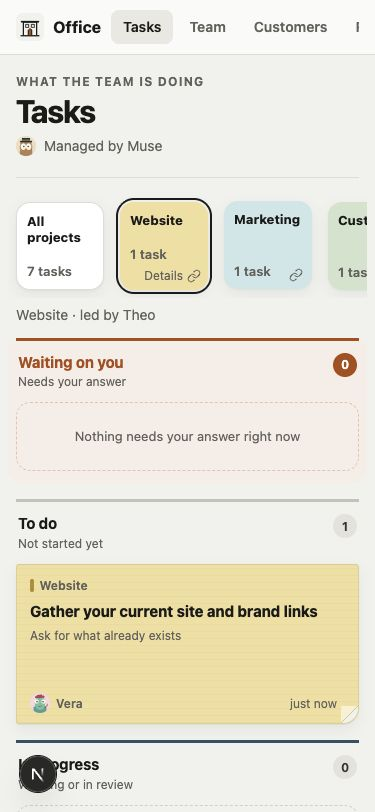
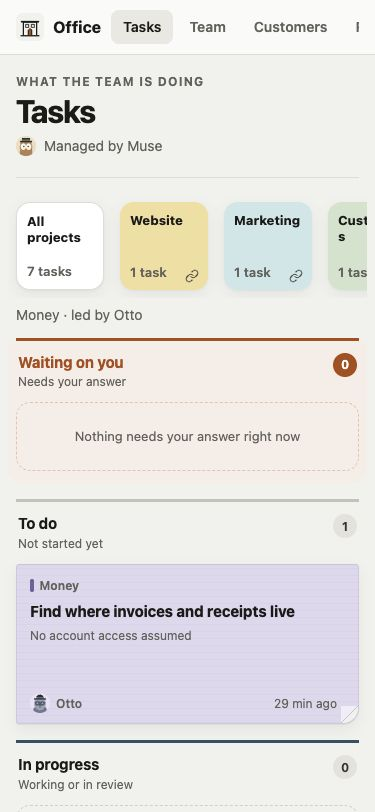
fix(tasks): keep selected project links visible on phones

diff --git a/src/lib/starter-seed.ts b/src/lib/starter-seed.ts
@@ -45,7 +45,7 @@ export function seedStarter(db: Database.Database) {
     const update = db.prepare(`INSERT INTO task_updates (task, author, kind, body, created_at) VALUES (?, ?, ?, ?, ?)`);
     const tasks: Array<[string, string, string, string, string, number, string | null, string | null, string, string]> = [
       ["team-ready", "general", "Set up the specialist team", "chief", "done", 3, null, null, "Five specialist roles prepared", "The Office roster and each role's responsibilities are documented. Muse checks that every specialist has its own workspace and face."],
-      ["office-ready", "general", "Build the Office workspace", "developer", "done", 3, null, null, "Projects, Team, Customers, Reports, Notes", "The five Office pages and their data actions are available. This starter workspace shows how each page is used."],
+      ["office-ready", "general", "Build the Office workspace", "developer", "done", 3, null, null, "Tasks, Team, Customers, Reports, Notes", "The five Office pages and their data actions are available. This starter workspace shows how each page is used."],
       ["first-priority", "general", "Choose one priority for this week", "chief", "waiting_on_you", 2, "What is the one work priority you want the team to start with this week?", "answer", "The team can start with one clear goal", "Ask for the user's actual priority before assigning real work. Record the answer here and turn it into a plan."],
       ["site-links", "website", "Gather your current site and brand links", "designer", "todo", 0, null, null, "Ask for what already exists", "Review any existing site and brand material before suggesting changes. Ask the user for links when they are missing."],
       ["communication-plan", "marketing", "Draft a first-week communication plan", "marketer", "todo", 0, null, null, "Start from your audience and offer", "Ask what the user offers and whom they want to reach. Draft a short plan; do not publish it."],
@@ -96,7 +96,7 @@ export function seedStarter(db: Database.Database) {
       (slug, project, title, lede, markdown, kept_by, tags_json, pinned, created_at, updated_at)
       VALUES (?, ?, ?, ?, ?, 'chief', ?, ?, ?, ?)`);
     note.run("how-your-office-works", "general", "How your Office works", "Where requests go, who works on them, and how you see progress.",
-      `## The short version\n\n**Talk to Muse in chat.** Muse turns substantial requests into tasks and briefs the right specialist. Projects shows progress and decisions. You can comment on a task or note; ask Muse to change other pages.\n\n## Who does what\n\n| Specialist | Work |\n| --- | --- |\n| Muse | Coordinates, checks, and reports back |\n| Vera | Design |\n| Theo | Websites and tools |\n| June | Marketing |\n| Sam | Customer follow-ups |\n| Otto | Money records and reports |\n\n## How a request moves\n\n~~~mermaid\nflowchart TB\n  A[You ask Muse] --> B[Muse records the task]\n  B --> C[Specialist works]\n  C --> D[Muse checks and reports]\n  D --> E[Office keeps the result]\n~~~\n\n## Your approval\n\nThe team asks before sending, buying, publishing, or deleting anything.`,
+      `## The short version\n\n**Talk to Muse in chat.** Muse turns substantial requests into tasks and briefs the right specialist. Tasks shows progress and decisions. You can comment on a task or note; ask Muse to change other pages.\n\n## Who does what\n\n| Specialist | Work |\n| --- | --- |\n| Muse | Coordinates, checks, and reports back |\n| Vera | Design |\n| Theo | Websites and tools |\n| June | Marketing |\n| Sam | Customer follow-ups |\n| Otto | Money records and reports |\n\n## How a request moves\n\n~~~mermaid\nflowchart TB\n  A[You ask Muse] --> B[Muse records the task]\n  B --> C[Specialist works]\n  C --> D[Muse checks and reports]\n  D --> E[Office keeps the result]\n~~~\n\n## Your approval\n\nThe team asks before sending, buying, publishing, or deleting anything.`,
       JSON.stringify(["office", "start here", "workflow"]), 1, now, now);
     note.run("your-first-week", "general", "Your first week", "The first useful questions and tasks, with no assumptions about your accounts.",
       `## One priority\n\nThe first decision is on the **Choose one priority for this week** task. Muse will use your answer to focus the team.\n\n## First steps\n\n- **Website:** Share any current site or brand links.\n- **Marketing:** Tell June what you offer and whom you want to reach.\n- **Customers:** Tell Sam which work conversations you want included.\n- **Money:** Tell Otto where invoices and receipts live, if you want money reports.\n\nNothing has been sent or connected yet.`,

diff --git a/src/app/projects/projects.css b/src/app/projects/projects.css
@@ -19,10 +19,10 @@
 .pj-tile-filter { display: flex; flex: 1; min-height: 0; flex-direction: column; justify-content: space-between; padding: 14px 14px 12px; border-radius: inherit; }
 .pj-tile-filter:focus-visible { outline: none; }
 .pj-tile.has-details.on .pj-tile-filter { padding-bottom: 36px; }
-.pj-tile-details { position: absolute; right: 6px; bottom: 6px; display: flex; align-items: center; justify-content: center; gap: 4px; min-width: 24px; min-height: 24px; padding: 3px; border-radius: 4px; font-size: var(--t-badge); color: var(--soft); }
+.pj-tile-details { position: absolute; right: 6px; bottom: 6px; display: flex; align-items: center; justify-content: center; gap: 4px; min-width: 24px; min-height: 24px; padding: 3px; border-radius: 4px; font-size: var(--t-badge); color: #55544f; }
 .pj-tile-details:hover { color: var(--ink); }
 .pj-tile-details:focus-visible { outline: 2px solid var(--ink); outline-offset: 1px; }
-.pj-tile-nm { font-size: var(--t-sec); font-weight: 750; line-height: 1.25; }
+.pj-tile-nm { display: -webkit-box; -webkit-box-orient: vertical; -webkit-line-clamp: 3; overflow: hidden; overflow-wrap: anywhere; flex-shrink: 0; font-size: var(--t-sec); font-weight: 750; line-height: 1.25; }
 .pj-tile-n { font-size: var(--t-cap); font-weight: 600; color: var(--soft); }
 .pj-info { min-height: 28px; margin-top: 4px; display: flex; align-items: center; gap: 10px; flex-wrap: wrap; font-size: var(--t-sec); color: var(--soft); }
 
@@ -156,7 +156,7 @@
   .pj-tile-filter { padding: 10px 10px 8px; }
   .pj-tile.has-details.on .pj-tile-filter { padding-bottom: 26px; }
   .pj-tile-details { right: 4px; bottom: 2px; }
-  .pj-tile-nm { font-size: var(--t-cap); }
+  .pj-tile-nm { -webkit-line-clamp: 2; font-size: var(--t-cap); }
   /* lanes stack, Waiting on you first; one column of notes per lane */
   .pj-board { display: flex; flex-direction: column; align-items: stretch; gap: 16px; }
   .pj-lane.wait { order: -1; }

diff --git a/src/components/board/ProjectTile.tsx b/src/components/board/ProjectTile.tsx
@@ -1,7 +1,7 @@
 "use client";
 
 import Link from "next/link";
-import type { CSSProperties, FocusEvent } from "react";
+import { useEffect, useRef, type CSSProperties, type FocusEvent } from "react";
 import "@/app/projects/projects.css";
 
 /**
@@ -10,6 +10,16 @@ import "@/app/projects/projects.css";
  * The chosen tile wears an ink outline.
  */
 export function ProjectTile({ href, projectHref, name, count, color, chosen }: { href: string; projectHref?: string; name: string; count: number; color?: string; chosen: boolean }) {
+  const tile = useRef<HTMLDivElement>(null);
+  useEffect(() => {
+    const element = tile.current;
+    const row = element?.parentElement;
+    if (!chosen || !element || !row) return;
+    const box = element.getBoundingClientRect();
+    const viewport = row.getBoundingClientRect();
+    if (box.left < viewport.left + 8) row.scrollLeft += box.left - viewport.left - 8;
+    else if (box.right > viewport.right - 8) row.scrollLeft += box.right - viewport.right + 8;
+  }, [chosen]);
   const fill = color ? ({ "--c": color } as CSSProperties) : undefined;
   function revealTile(event: FocusEvent<HTMLAnchorElement>) {
     if (event.currentTarget.matches(":focus-visible")) {
@@ -17,7 +27,7 @@ export function ProjectTile({ href, projectHref, name, count, color, chosen }: {
     }
   }
   return (
-    <div className={"pj-tile" + (color ? "" : " all") + (chosen ? " on" : "") + (projectHref ? " has-details" : "")} style={fill}>
+    <div ref={tile} className={"pj-tile" + (color ? "" : " all") + (chosen ? " on" : "") + (projectHref ? " has-details" : "")} style={fill}>
       <Link href={href} className="pj-tile-filter" aria-current={chosen ? "true" : undefined} onFocus={revealTile}>
         <span className="pj-tile-nm">{name}</span>
         <span className="pj-tile-n">{count} {count === 1 ? "task" : "tasks"}</span>

diff --git a/src/lib/seed.ts b/src/lib/seed.ts
@@ -287,7 +287,7 @@ export function seed(db: Database.Database) {
     const notes: Array<[string, string, string, string, string, string, string[], number, number, string[]]> = [
       ["how-your-office-works", "general", "How your office works", "A one-page guide to your office, written by your chief of staff.", `## The short version
 - You talk to your chief of staff in chat. It decides where each request goes.
-- The team works on tasks. You see them on **Projects**.
+- The team works on tasks. You see them on **Tasks**.
 - When something needs you, it moves to **Waiting on you**, and you are asked in chat.
 - You can comment on any task's page. Everything else, you ask in chat.
 

diff --git a/spec/DESIGN.md b/spec/DESIGN.md
@@ -62,7 +62,7 @@ Cards are **sticky notes**, laid out **one per lane** with a 12px vertical gap. 
 - Inside: the project name (12px/650, soft) with a 3.5px × 13px bar in the project's dark shade; the title (15px/750, ink, two lines at most); up to three lines of summary or a waiting question directly on the pastel paper with a small orange dot, without a bubble; and a footer pushed to the bottom: the specialist's 20px round avatar and name on the left, the time on the right. A done card's footer reads "✓ Done" in green with a small green check circle, then the time.
 - On a phone: one column of notes per lane, lanes stacked, Waiting on you first.
 
-Project tiles above the board: 118px squares (88px on a phone), the pastel fill, no border, no stripe; name top-left (14px/750), count bottom-left (13px/600 soft); the chosen tile gets a 2px ink outline; "All projects" is white with a hairline border. Preserve these sizes when adding project navigation: use a small link icon in the lower-right corner with a 24px target. Only the chosen project shows muted "Details" to its left, with its count moved up just enough to leave room. No divided footer or extra tile height. Keep 8px padding around the scrolling row so outlines are not clipped.
+Project tiles above the board: 118px squares (88px on a phone), the pastel fill, no border, no stripe; name top-left (14px/750), count bottom-left (13px/600 soft); the chosen tile gets a 2px ink outline; "All projects" is white with a hairline border. Preserve these sizes when adding project navigation: use a small link icon in the lower-right corner with a 24px target. Only the chosen project shows muted "Details" to its left, with its count moved up just enough to leave room. Clamp project names to three lines on desktop and two on phones so counts stay above the Details link; keep the full name accessible. Reveal the selected tile within the horizontal row without moving the page. No divided footer or extra tile height. Keep 8px padding around the scrolling row so outlines are not clipped.
 
 ## Cards and pills
 

diff --git a/docs/DEVELOPING.md b/docs/DEVELOPING.md
@@ -26,13 +26,13 @@ to a task update. Muse changes the other records through Office actions.
 
 ## What the starter shows
 
-Projects opens with setup work and a real question for the person. Team members
+Tasks opens with setup work and a real question for the person. Team members
 have illustrated faces. Customers contains orientation contacts outside the
 sales funnel; the funnel stays at zero until real people are added. Reports
 opens with four charts from linked public sources. Notes renders Markdown,
 tables, and Mermaid diagrams.
 
-- [Starter Projects board](screenshots/starter-projects.jpg)
+- [Starter Tasks board](screenshots/starter-projects.jpg)
 - [Starter Team](screenshots/starter-team.jpg)
 - [Starter Customers](screenshots/starter-customers.jpg)
 - [Starter Reports](screenshots/starter-reports.jpg)

diff --git a/spec/SCHEMA.md b/spec/SCHEMA.md
@@ -8,7 +8,7 @@ Every page reads from these tables. Nothing on a page is stored anywhere else, s
 
 | Page | Reads from |
 | --- | --- |
-| Projects (the board) | `projects`, `tasks`, `members` |
+| Tasks (the board) | `projects`, `tasks`, `members` |
 | A project's page | `projects`, `process_steps`, `project_rules`, `tasks` |
 | A task's page | `tasks`, `task_checks`, `task_plan`, `task_files`, `task_updates`, `members` |
 | Team | `members`, `tasks` (for "working on" and "latest") |
